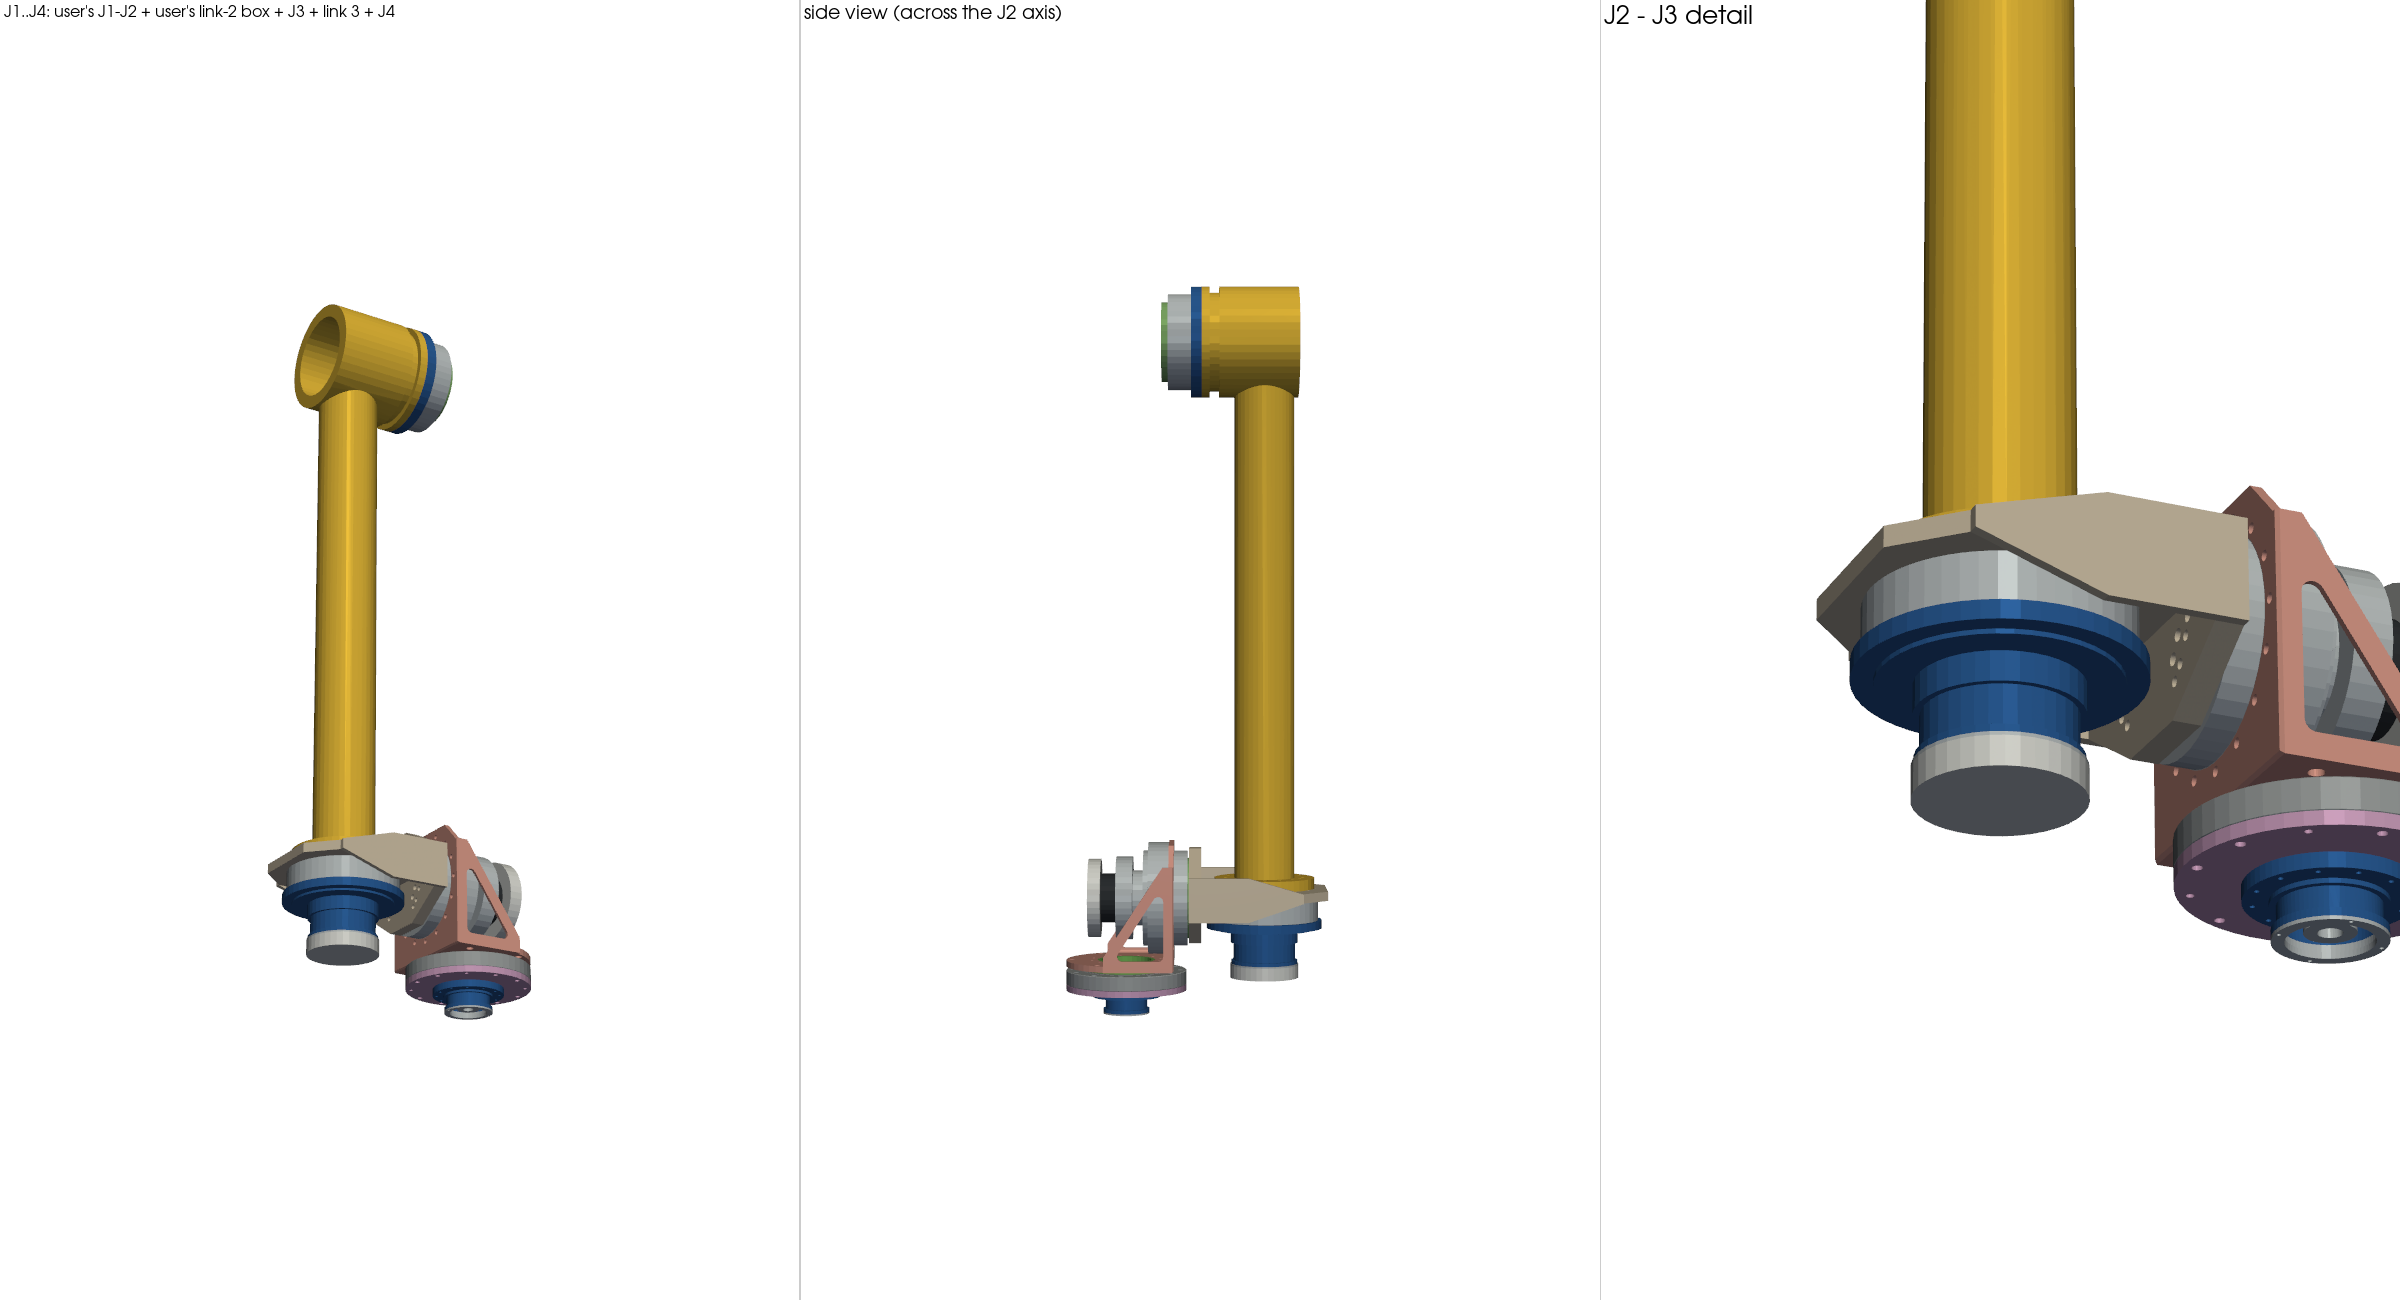
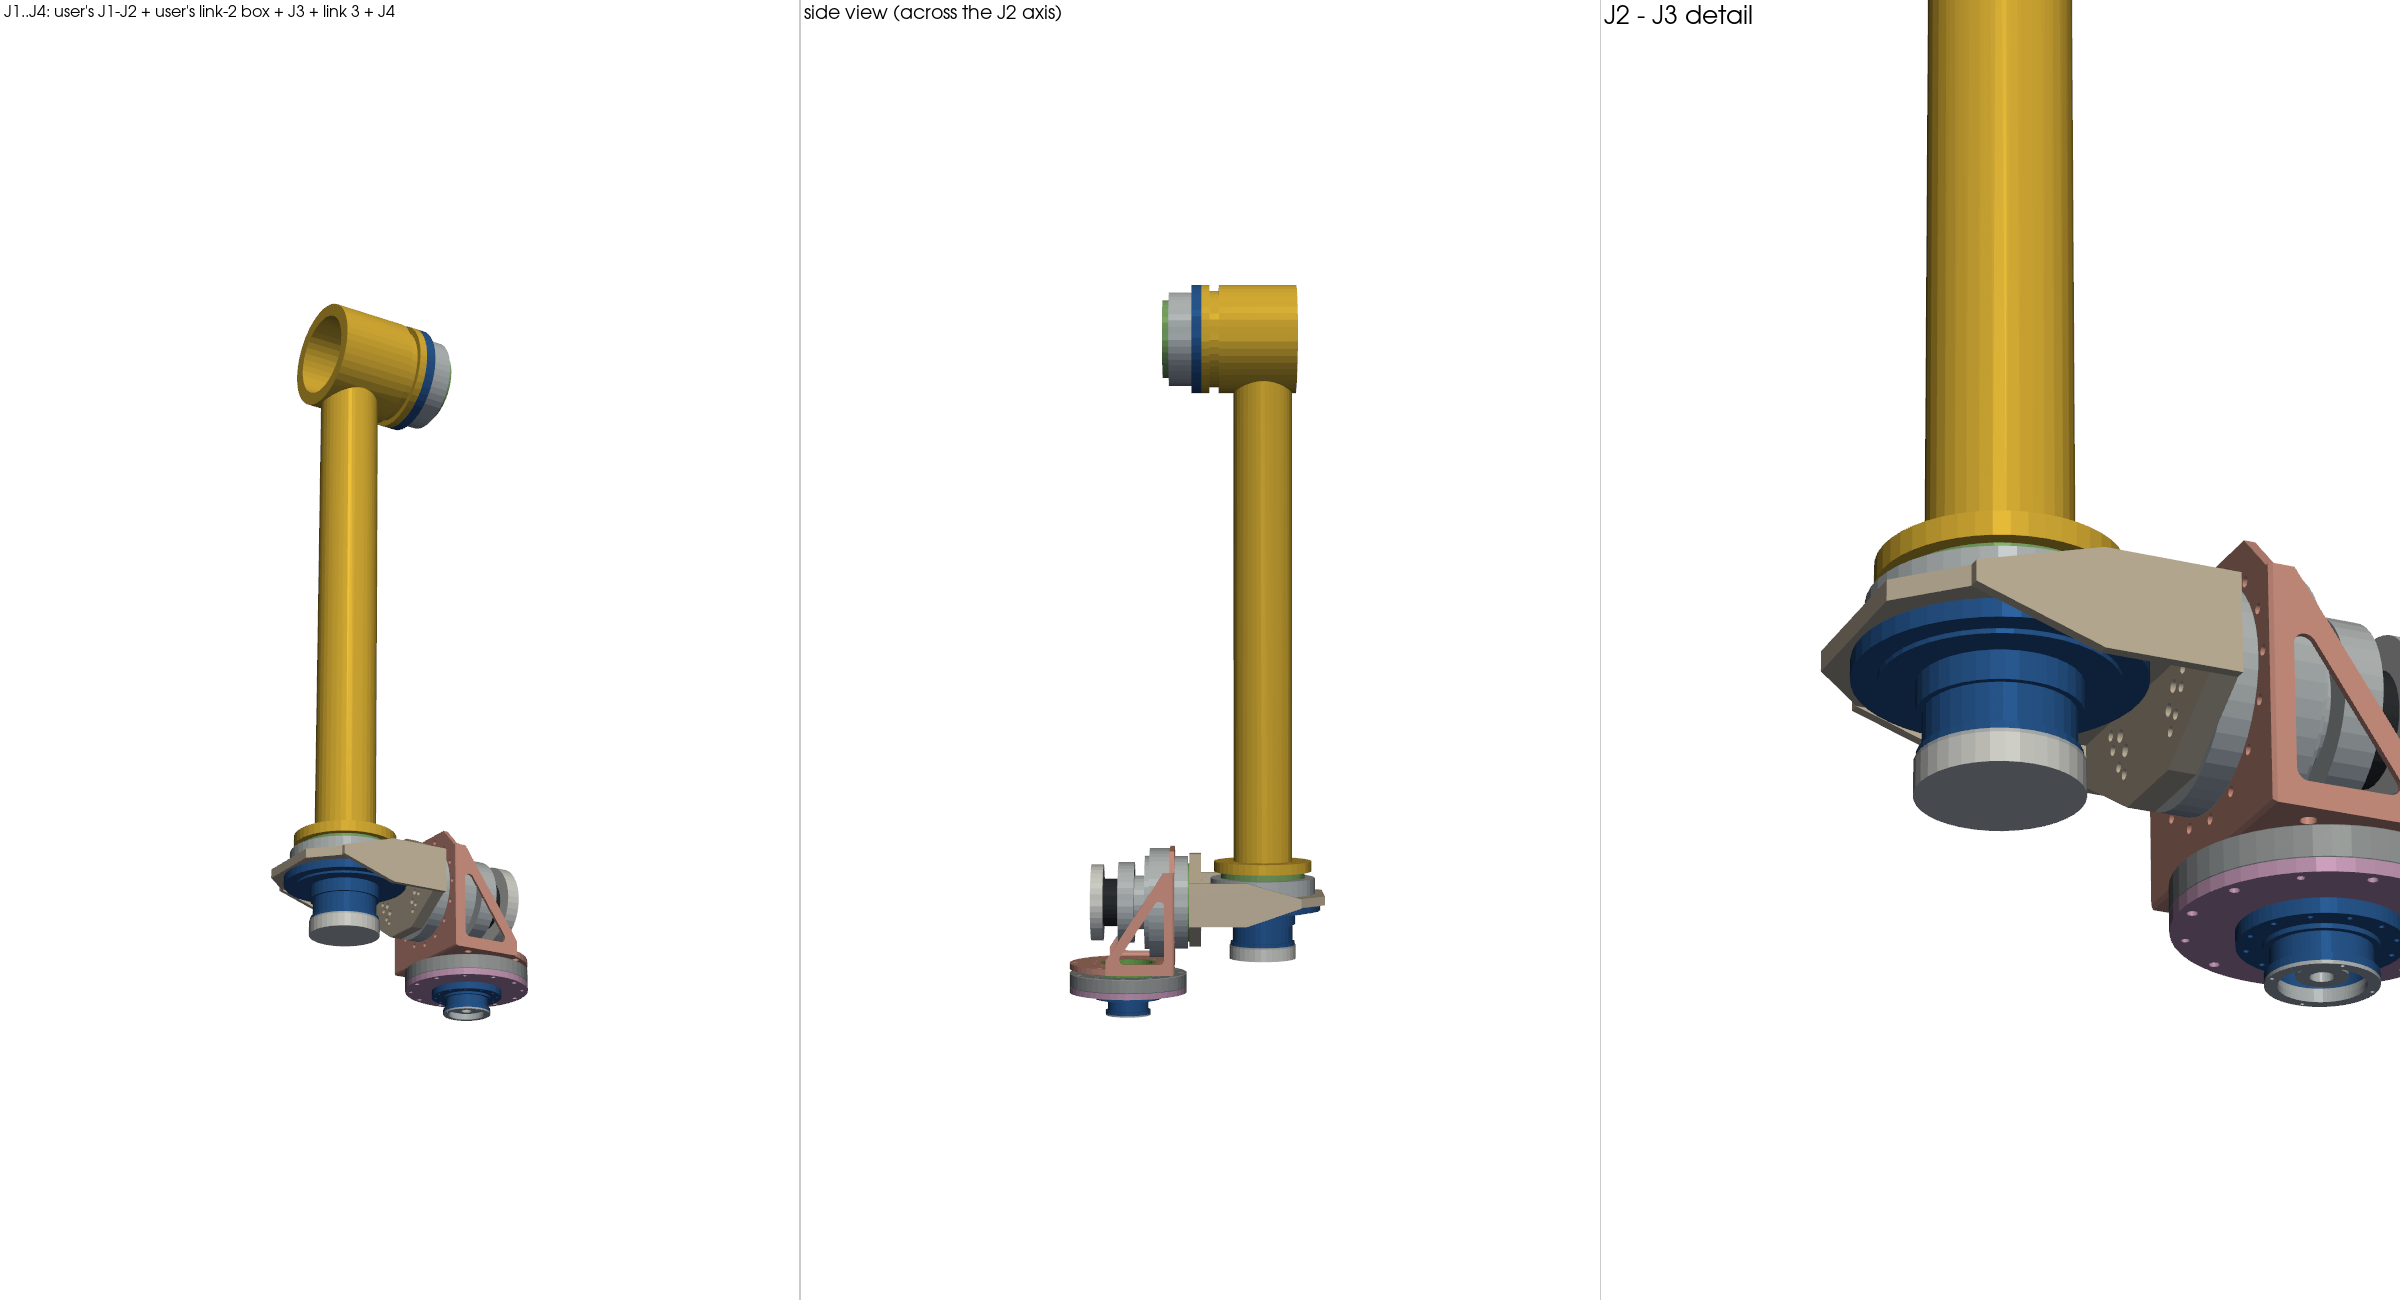
J3 for the box link: joint SHM-KB50F (flange D236, 24xM5 D224 into the plate), ring through the plate, J3 +50 up
Claude-Session: https://claude.ai/code/session_01HNc2e7dHna5JzqoB2AUz2M

diff --git a/tools/gen_user_l123.py b/tools/gen_user_l123.py
@@ -8,7 +8,7 @@ XJ2=np.array([0,0.195090322015843,0.980785280403287]); UP=np.array([1.,0,0])
 J2o=np.array([171,-1.95090322015508,-9.80785280403365]); face=J2o+149*XJ2
 L2=frame(face-14*XJ2, np.cross(UP,XJ2), XJ2)                 # user's part frame of LINK-2B
 J2=frame(J2o, XJ2, np.cross(XJ2,UP))                          # Y_j (card 90, centre of the output hole groups) = up
-J3=L2@frame([0,-92,150],[0,1,0],[0,0,1])                      # ring output face (x=99) at part y=7
+J3=L2@frame([0,-48,150],[0,1,0],[0,0,1])                      # flange D236 top (x=49) on the plate bottom y=1
 # link 3 and J4 keep their v2 relation to J3 (robot/RTC-7-v2-J1-J7.txt)
 J3v2=frame([135,0,266],[0,0,1],[1,0,0]); J4v2=frame([29,0,1467],[-1,0,0],[0,0,1])
 M=J3@np.linalg.inv(J3v2); L3=M; J4=M@J4v2
@@ -22,7 +22,7 @@ if __name__=="__main__":
     hdr=open("links-user/RTC-7-user-J1-J2.txt",encoding="utf-8").read().split("ROBOTASM")[0]
     txt=f"""# J1..J4 of the user's arm with the user's link-2 box (J2-J3.STEP, 2026-10-24) - for BuildFromSpec (ROBOTASM).
 # GENERATED by tools/gen_user_l123.py. Frame = the user's assembly frame, mm: X = J1 axis (up), x = 0 - the ОПУ base plane.
-# Links: 1 = LINK-1U V2 (accepted), 2 = LINK-2B (the user's box, J3 seat on the KB50 ring face), 3 = links-v2 LINK-3 (as in the
+# Links: 1 = LINK-1U V2 (accepted), 2 = LINK-2B (the user's box, KB50 ring through the plate, J3 on the flange D236 = joint SHM-KB50F), 3 = links-v2 LINK-3 (as in the
 # v2 arm, J4 seat on top). J2 is turned so that the centres of its output hole groups point up (card 90 deg = +X): the box
 # holes match; the 16 flange holes D9 of the 80E still match link 1 (90 deg = 4 x 22.5).
 ROBOTASM RTC-7-user-J1-J4
@@ -36,7 +36,7 @@ COMP YULA  links-user/YULA/YULA.txt                             0 0 0           
 COMP L1    links-user/LINK-1U/LINK-1U.txt                       171 16.5827 83.3667          1 0 0                      0 0.19509 0.980785 rigid
 {comp("J2","joints/SHM-1000/SHM-1000.txt",J2)}
 {comp("L2","links-user/LINK-2B/LINK-2B.txt",L2,"rigid")}
-{comp("J3","joints/SHM-KB50/SHM-KB50.txt",J3)}
+{comp("J3","joints/SHM-KB50F/SHM-KB50F.txt",J3)}
 {comp("L3","links-v2/LINK-3/LINK-3.txt",L3,"rigid")}
 {comp("J4","joints/SHM-KB45/SHM-KB45.txt",J4)}
 
@@ -76,6 +76,8 @@ LOCK J4   DMRD-KB45-01_Housing       L3   LINK-3-01_Weldment
     parts.append(("YULA",lb.build_part(lb.parse("links-user/YULA/YULA.txt")[0][0]),"yula"))
     parts.append(("BASEPLATE",lb.build_part(lb.parse("links-user/BASEPLATE/BASEPLATE.txt")[0][0]),"base"))
     J2v2=frame([-149,0,137],[1,0,0],[0,0,1])
+    import joint_envelope as je
+    _all=je.all_joints; je.all_joints=lambda: {**_all(), "SHM-KB50": _all()["SHM-KB50F"]}
     for nm,s,jn,kind in lb.envelope_solids("robot/RTC-7-layout-v2.txt",["J2","J3","J4"]):
         if jn=="base": continue
         Tv={"J2":J2v2,"J3":J3v2,"J4":J4v2}[jn]; Tn={"J2":J2,"J3":J3,"J4":J4}[jn]
